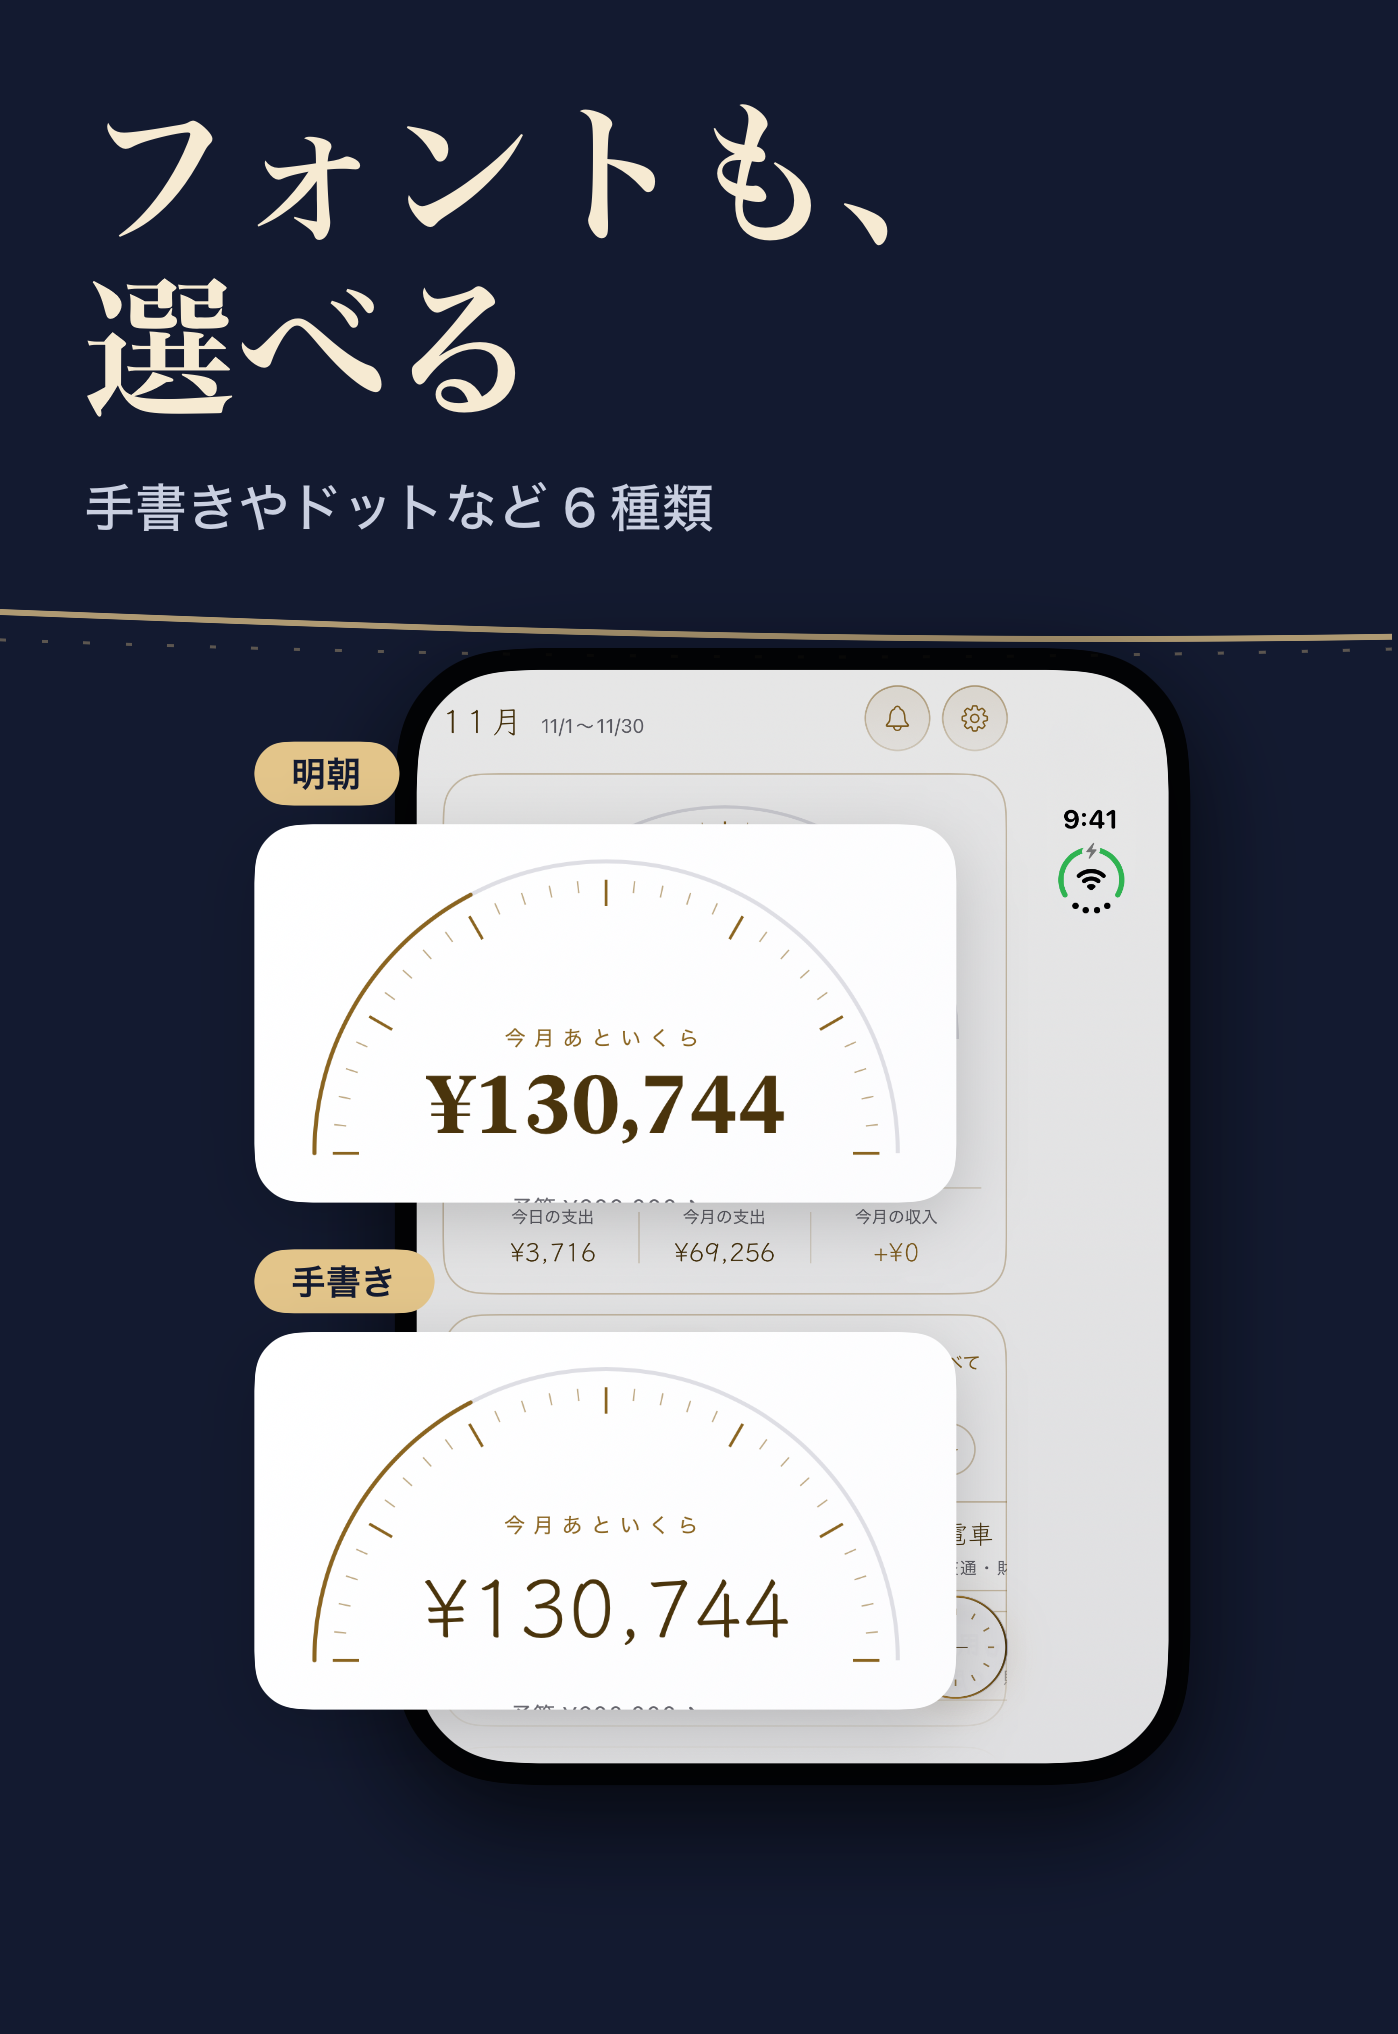
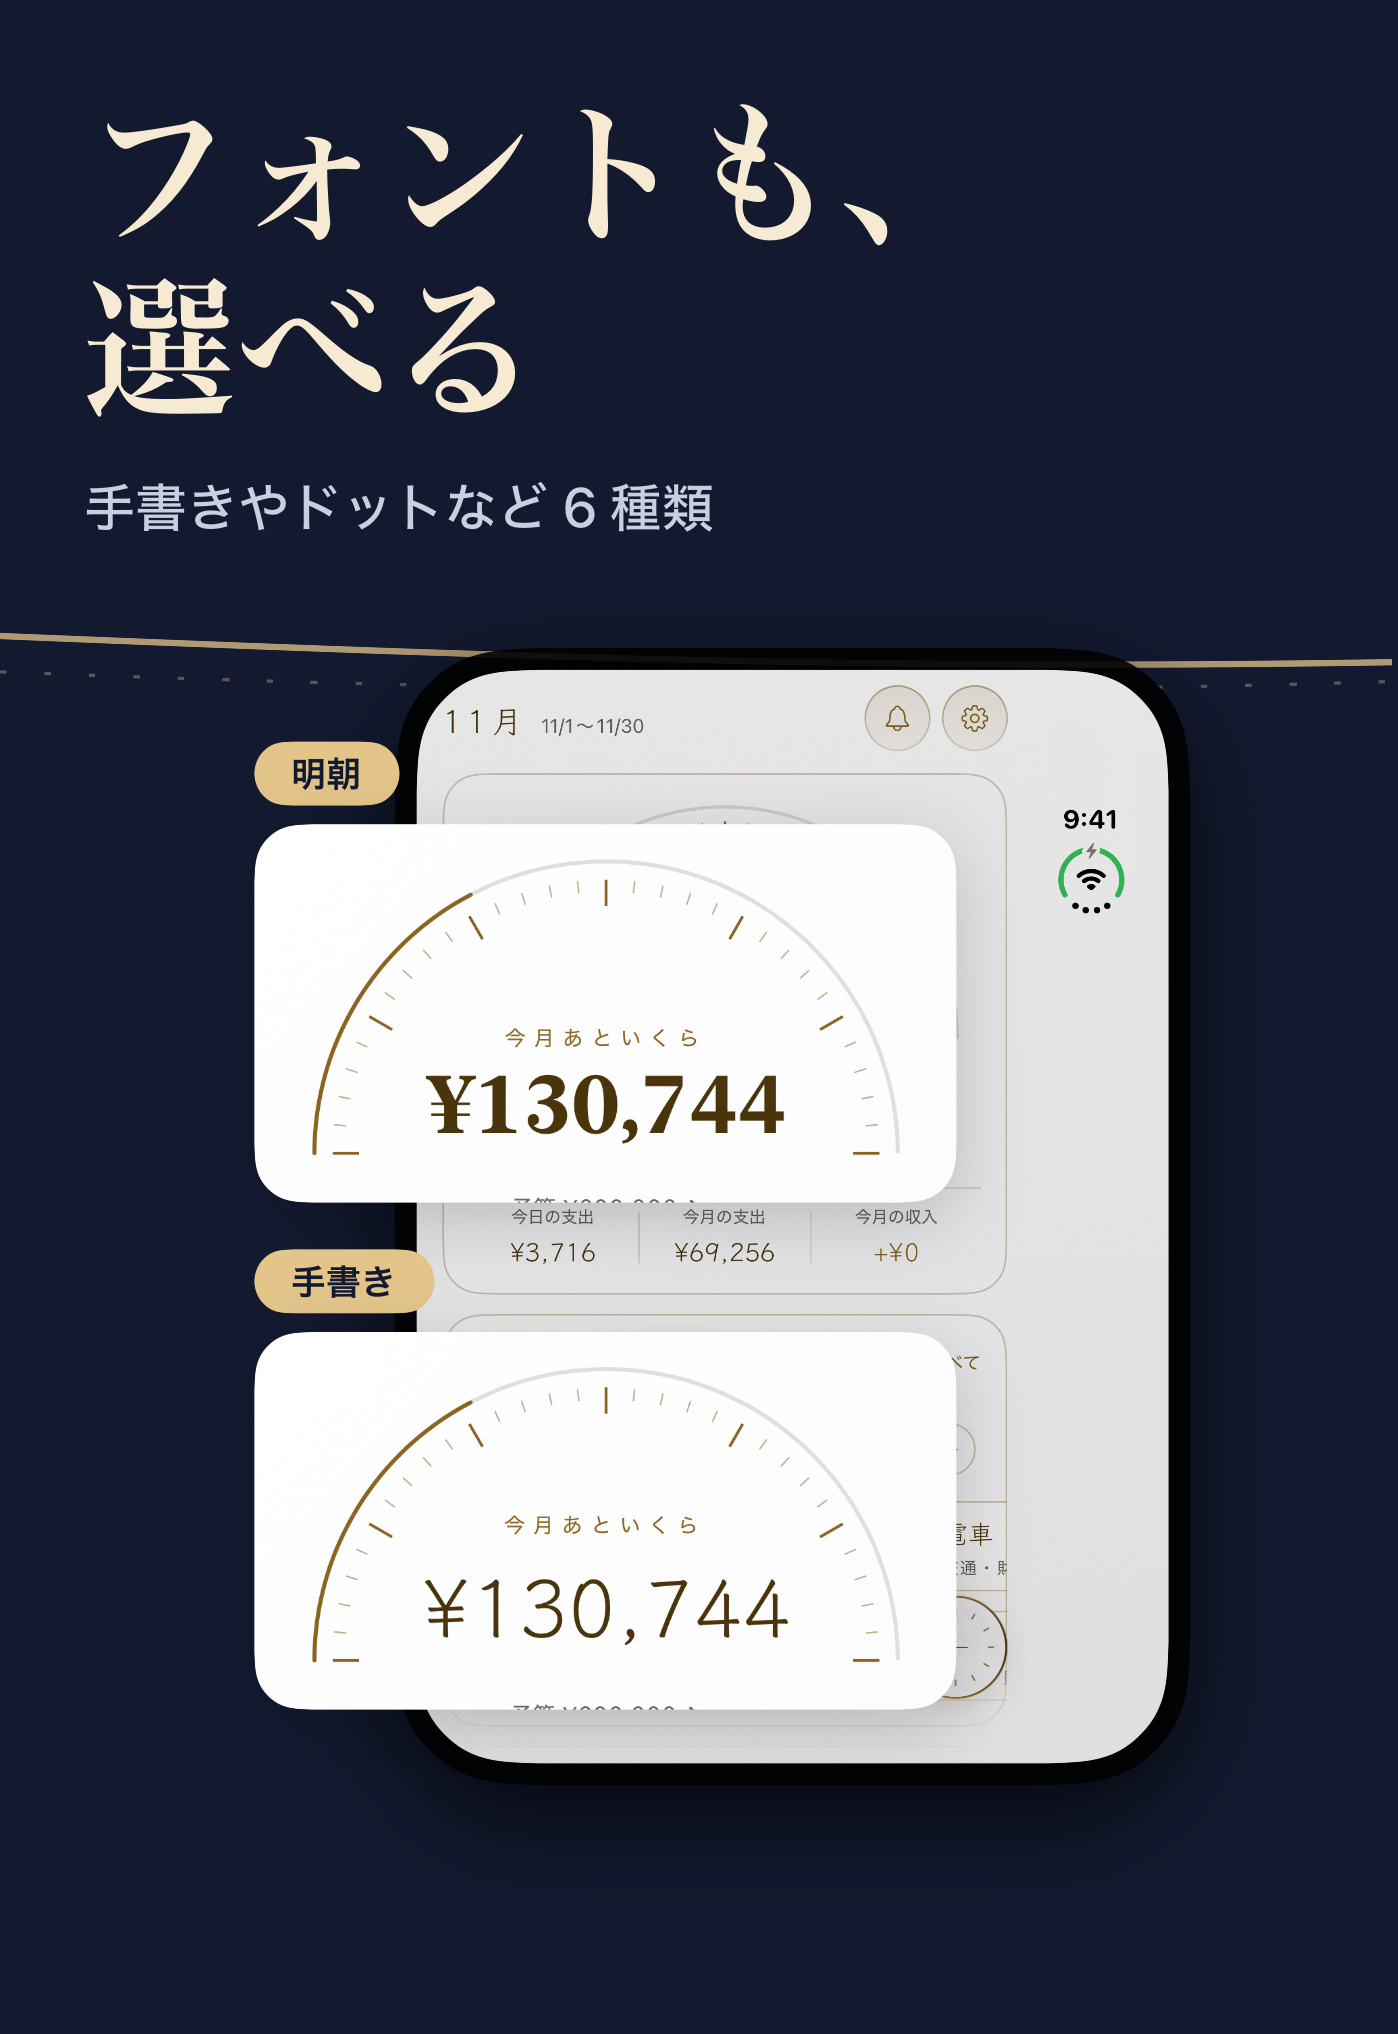
build: draw the ipad and duo waves as boldly as the iphone ones
iPad と Duo の波線の揺れ幅・太さ・点線の間隔を、iPhone を基準に画面の幅に合わせて広げた。
線は端末の上端をまたいで通し、一部を端末の後ろに隠した。

diff --git a/.claude/snapshots/store/SnapshotTests.swift b/.claude/snapshots/store/SnapshotTests.swift
@@ -449,8 +449,8 @@ private extension StorePage {
 
     var waves: [StoreWave] {
         let zoom = canvas.size.width / 320
-        let swing = min(zoom, 1)
-        let y = canvas.headerHeight - 12
+        let swing = canvas.size.width / 440
+        let y = canvas.headerHeight - 4
         let shift = canvas.size.width * 1.05 * CGFloat(index)
 
         return [
@@ -460,17 +460,17 @@ private extension StorePage {
                 period: 1008 * zoom,
                 phase: 0,
                 opacity: 0.75,
-                width: 2,
+                width: 2 * swing,
                 dash: []
             ),
             StoreWave(
-                y: y + 6 * swing,
+                y: y + 8 * swing,
                 amplitude: 9 * swing,
                 period: 1008 * zoom,
                 phase: 60 * zoom,
                 opacity: 0.35,
-                width: 1,
-                dash: [2, 12]
+                width: swing,
+                dash: [2 * swing, 12 * swing]
             )
         ].map { $0.shifted(by: shift) }
     }
